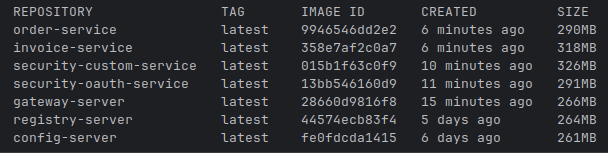
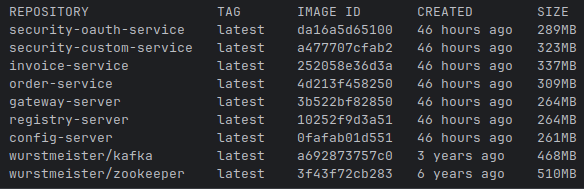
Updated README file

diff --git a/README.md b/README.md
@@ -232,6 +232,7 @@ of a small one on which I am using the following technologies:
 * **[Spring OAuth 2.0 Resource Server](https://docs.spring.io/spring-security/reference/servlet/oauth2/resource-server/index.html)** to handle the security through the microservice [security-oauth-service](#security-oauth-service).
 * **[MVC](https://docs.spring.io/spring-framework/reference/web/webmvc.html)** a traditional Spring MVC Rest API to manage the included requests.
 * **[gRPC](https://grpc.io/docs/what-is-grpc/introduction/)** server, more information in [gRPC communication](#grpc-communication).
+* **[Kafka](https://kafka.apache.org/)** producer, more information in [JMS communication](#jms-communication).
 
 In this microservice, the layer's division is:
 
@@ -276,6 +277,7 @@ the following technologies:
 * **[SpringDoc-OpenApi](https://springdoc.org/)** to document the endpoints provided by the microservice using [Swagger](https://swagger.io/).
 * **[Webflux](https://docs.spring.io/spring-framework/reference/web/webflux.html)** creating a reactive REST Api to manage the authentication/authorization requests.
 * **[gRPC](https://grpc.io/docs/what-is-grpc/introduction/)** client, more information in [gRPC communication](#grpc-communication).
+* **[Kafka](https://kafka.apache.org/)** consumer, more information in [JMS communication](#jms-communication).
 
 In this microservice, the layer's division is:
 
@@ -742,8 +744,8 @@ gRPC channel:
 Besides the REST API and the [gRPC communication](#grpc-communication), the project works with [JMS](https://www.oracle.com/java/technologies/java-message-service.html) to send data from
 [order-service](#order-service) to [invoice-service](#invoice-service).
 
-Using [Kafka](https://kafka.apache.org/), everytime a new order is created [order-service](#order-service) through its REST API, a new message is sent to [invoice-service](#invoice-service)
-to create a new invoice based on order's information.
+Using [Kafka](https://kafka.apache.org/), everytime a new order is created in [order-service](#order-service) through its REST API, a new message is sent to [invoice-service](#invoice-service)
+to insert a new invoice based on the order's information.
 <br><br>
 
 
